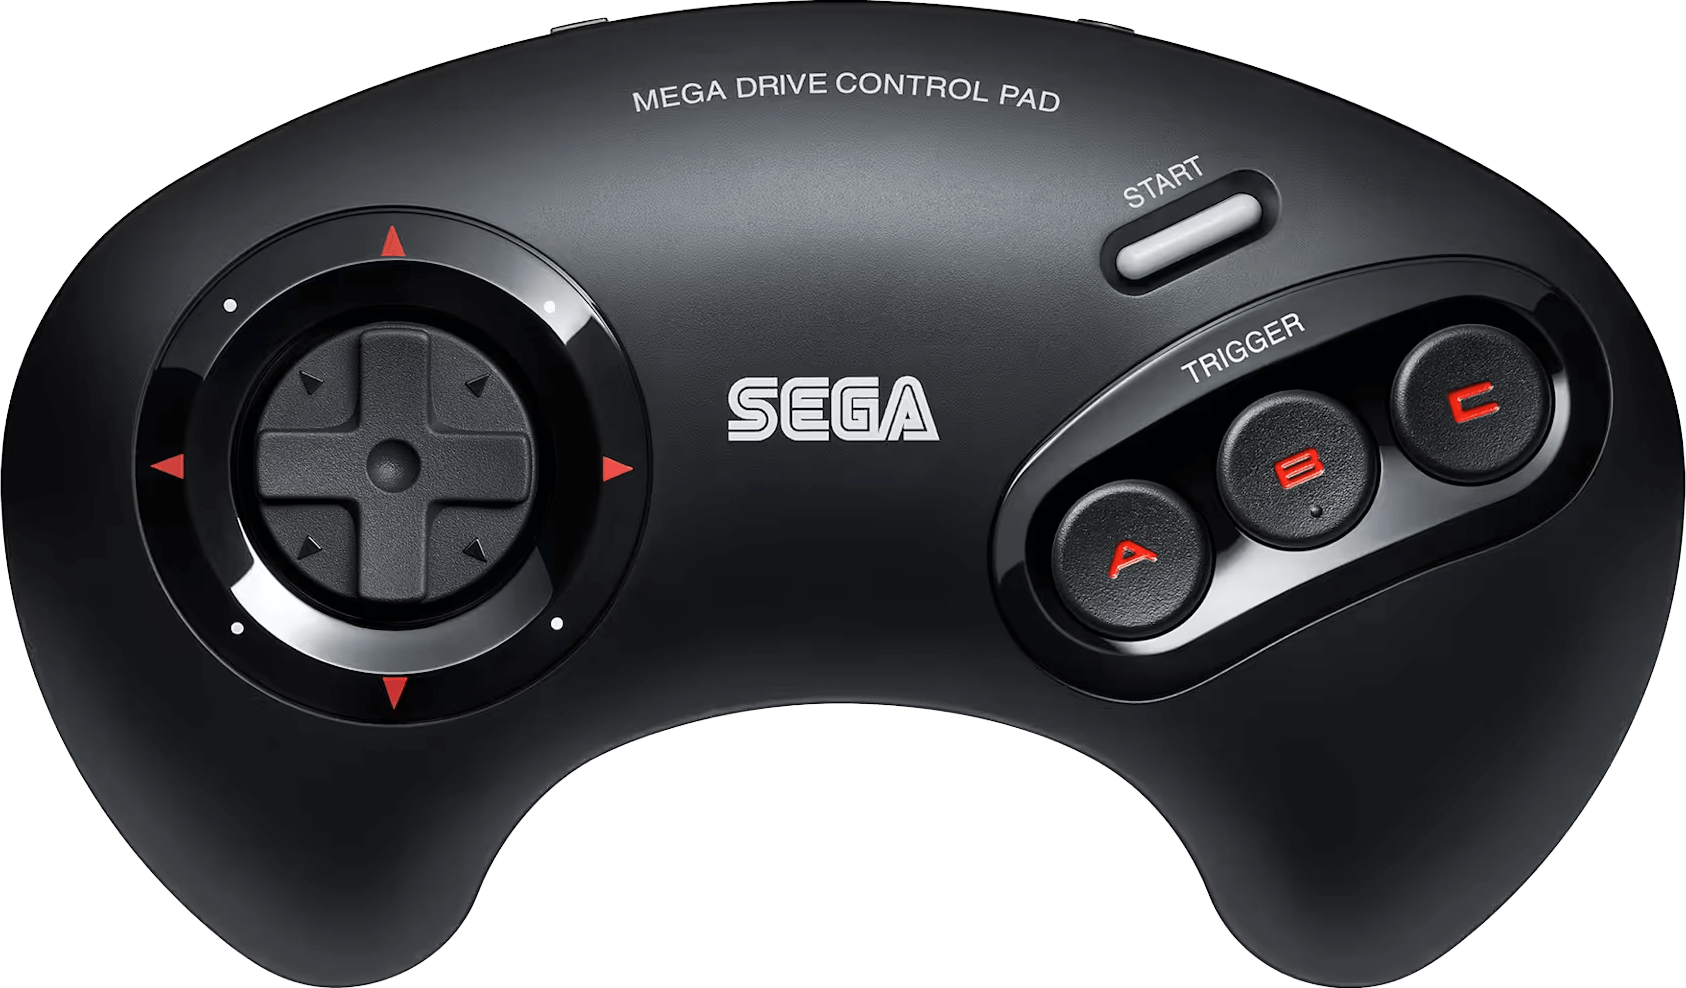
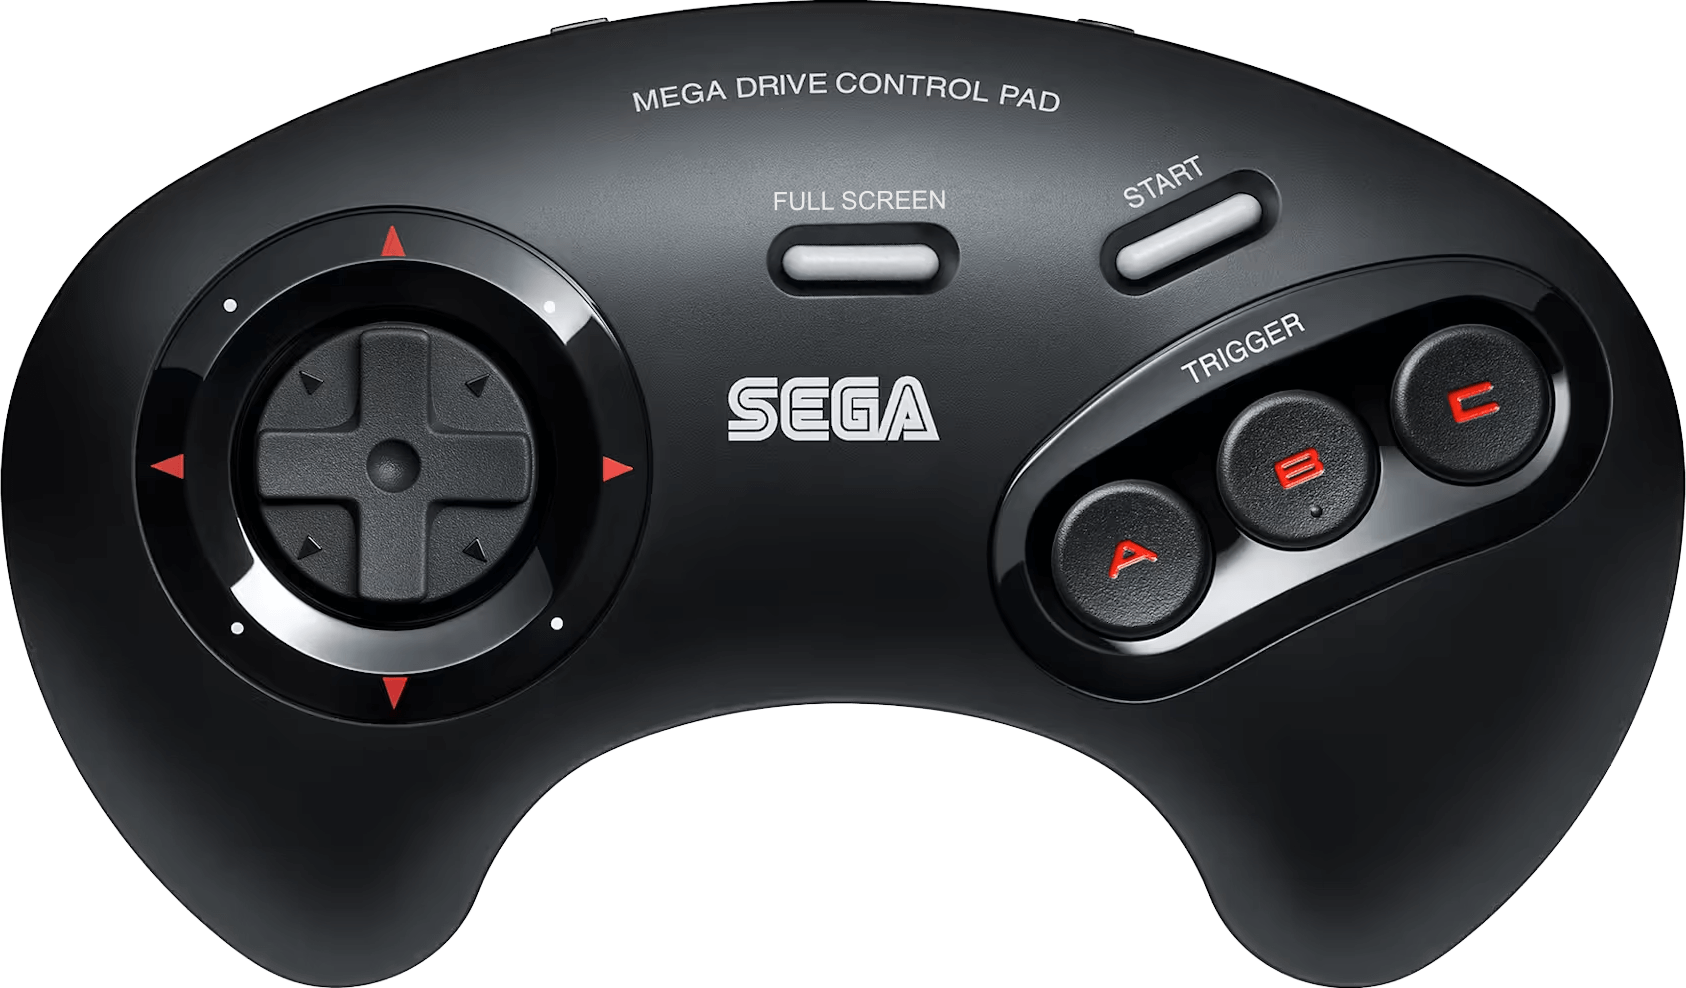
Improve gameboard layout and cam permission

Changed region(s): [[0.4318, 0.1822, 0.586, 0.3036]]

diff --git a/src/lib/Gamepad.svelte b/src/lib/Gamepad.svelte
@@ -12,7 +12,6 @@
   } = $props()
 
   let mainEl: HTMLElement
-  let isPaused = $state(false)
   let showPortraitWarn = $state(isDeviceVertical())
   let gamepadStatus: GamepadStatus = {
     joystick: {
@@ -74,19 +73,11 @@
   }
   
   function onStartInput(start: TriggerStatus): void {
-    if (start.isPressed) {
-      isPaused = !isPaused
-    }
     gamepadStatus = {
       ...gamepadStatus,
       start
     }
     oninput(gamepadStatus)
-  }
-
-  function onContinue(): void {
-    onStartInput({ isPressed: true })
-    onStartInput({ isPressed: false })
   }
 
   function onToggleFullscreen(): void {
@@ -96,14 +87,6 @@
   }
 </script>
 <main bind:this={mainEl}>
-
-  {#if isPaused}
-    <div class="pause-screen" in:fade>
-      <button type="button" onclick={onContinue}>Continuar</button>
-      <button type="button" onclick={onToggleFullscreen}>Full Screen</button>
-    </div>
-  {/if}
-
   {#if showPortraitWarn}
     <div class="portrait-warn" transition:fade>
       <div>Coloca el dispositivo en horizontal</div>
@@ -126,6 +109,12 @@
     <div class="ctrl btn-start">
       <Start oninput={onStartInput} />
     </div>
+    <button
+      type="button"
+      class="ctrl btn-fullscreen"
+      onclick={onToggleFullscreen}
+      aria-label="Fullscreen"
+    ></button>
   </div>
 </main>
 
@@ -135,6 +124,7 @@
   main {
     touch-action: none;
     position: relative;
+    overflow: hidden;
     width: 100vw;
     height: 100vh;
     background-color: oklch(14.5% 0 0);
@@ -148,28 +138,6 @@
     background-repeat: no-repeat;
     background-size: contain;
   }
-
-  .pause-screen {
-    position: absolute;
-    z-index: 10;
-    top: 0;
-    left: 0;
-    width: 100%;
-    height: 100%;
-    backdrop-filter: blur(5px);
-    background-color: rgba(0, 0, 0, 0.6);
-    padding: 2rem;
-    display: flex;
-    flex-direction: column;
-    align-items: end;
-    gap: 0.5rem;
-  }
-
-  .pause-screen button {
-    font-size: 1.2rem;
-    padding: 0.5rem 1rem;
-  }
-
   .portrait-warn {
     position: absolute;
     z-index: 20;
@@ -188,6 +156,8 @@
   }
   .ctrl {
     position: absolute;
+    background-color: transparent;
+    border: none;
     /* background-color: rgba(248, 255, 157, 0.405); */
   }
   .joystick-wrapper {
@@ -219,5 +189,11 @@
     left: 65%;
     top: 20.5%;
     transform: rotate(-25deg);
+  }
+  .btn-fullscreen {
+    width: 11%;
+    aspect-ratio: 3;
+    left: 45.75%;
+    top: 23.5%;
   }
 </style>

diff --git a/src/lib/ControlBinding.svelte b/src/lib/ControlBinding.svelte
@@ -12,6 +12,7 @@
     onconnected: (connection: Connection) => void
   } = $props()
 
+  let isMount = $state(false)
   let isSignaling = $state(false)
   let peerConnection: RTCPeerConnection
   let signalingConnection: SignalingConnection
@@ -23,6 +24,7 @@
       const roomId = currentUrl.searchParams.get('r')!
       initSignaling(roomId)
     }
+    isMount = true
   })
 
   function onResult(roomId: string): void {
@@ -80,15 +82,17 @@
   }
 </script>
 
-<div class="control-binding">
-  {#if isSignaling}
-    <div class="inner">
-      <Signaling />
-    </div>
-  {:else}
-    <QrScan onresult={onResult} />
-  {/if}
-</div>
+{#if isMount}
+  <div class="control-binding">
+    {#if isSignaling}
+      <div class="inner">
+        <Signaling />
+      </div>
+    {:else}
+      <QrScan onresult={onResult} />
+    {/if}
+  </div>
+{/if}
 
 <style>
   .control-binding {
